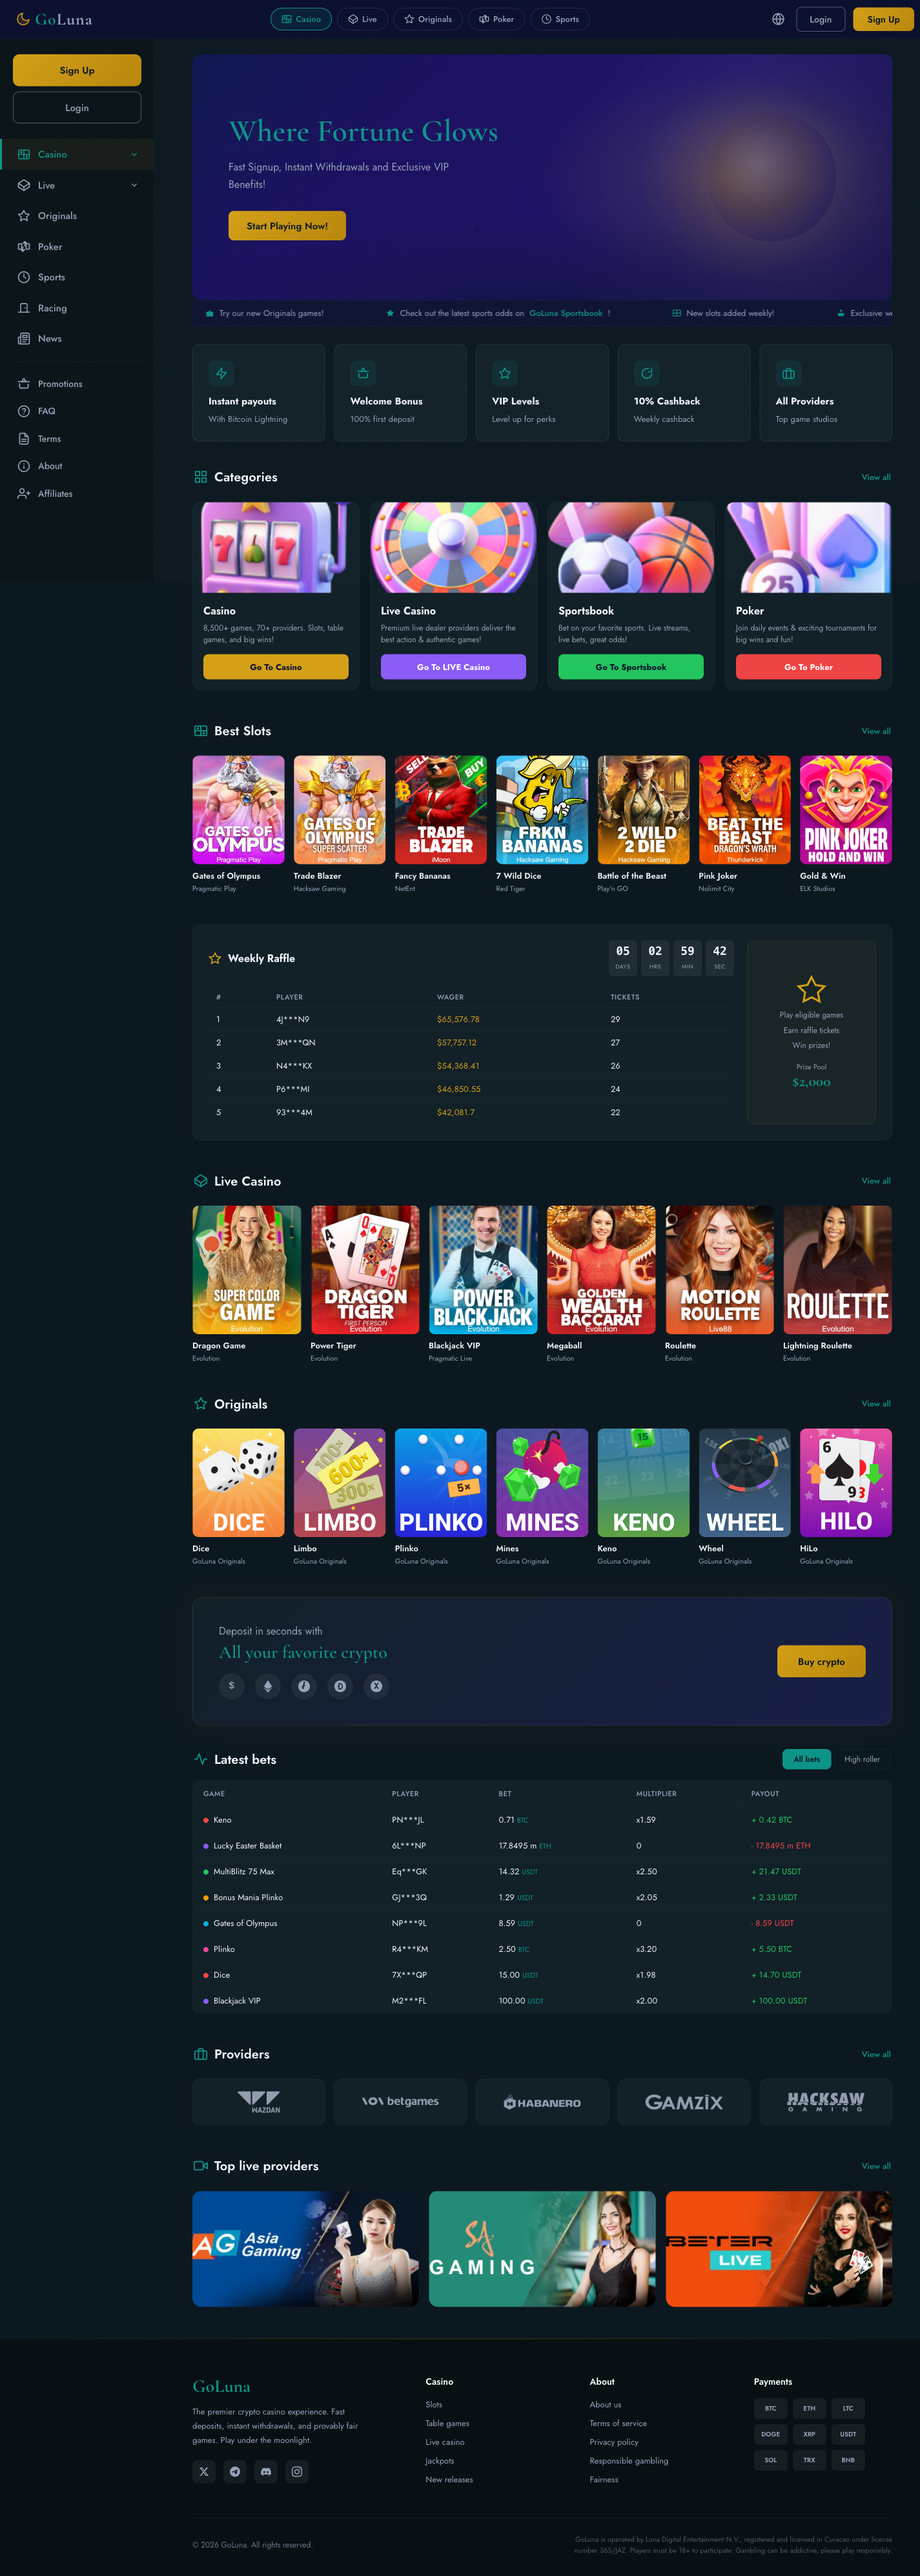
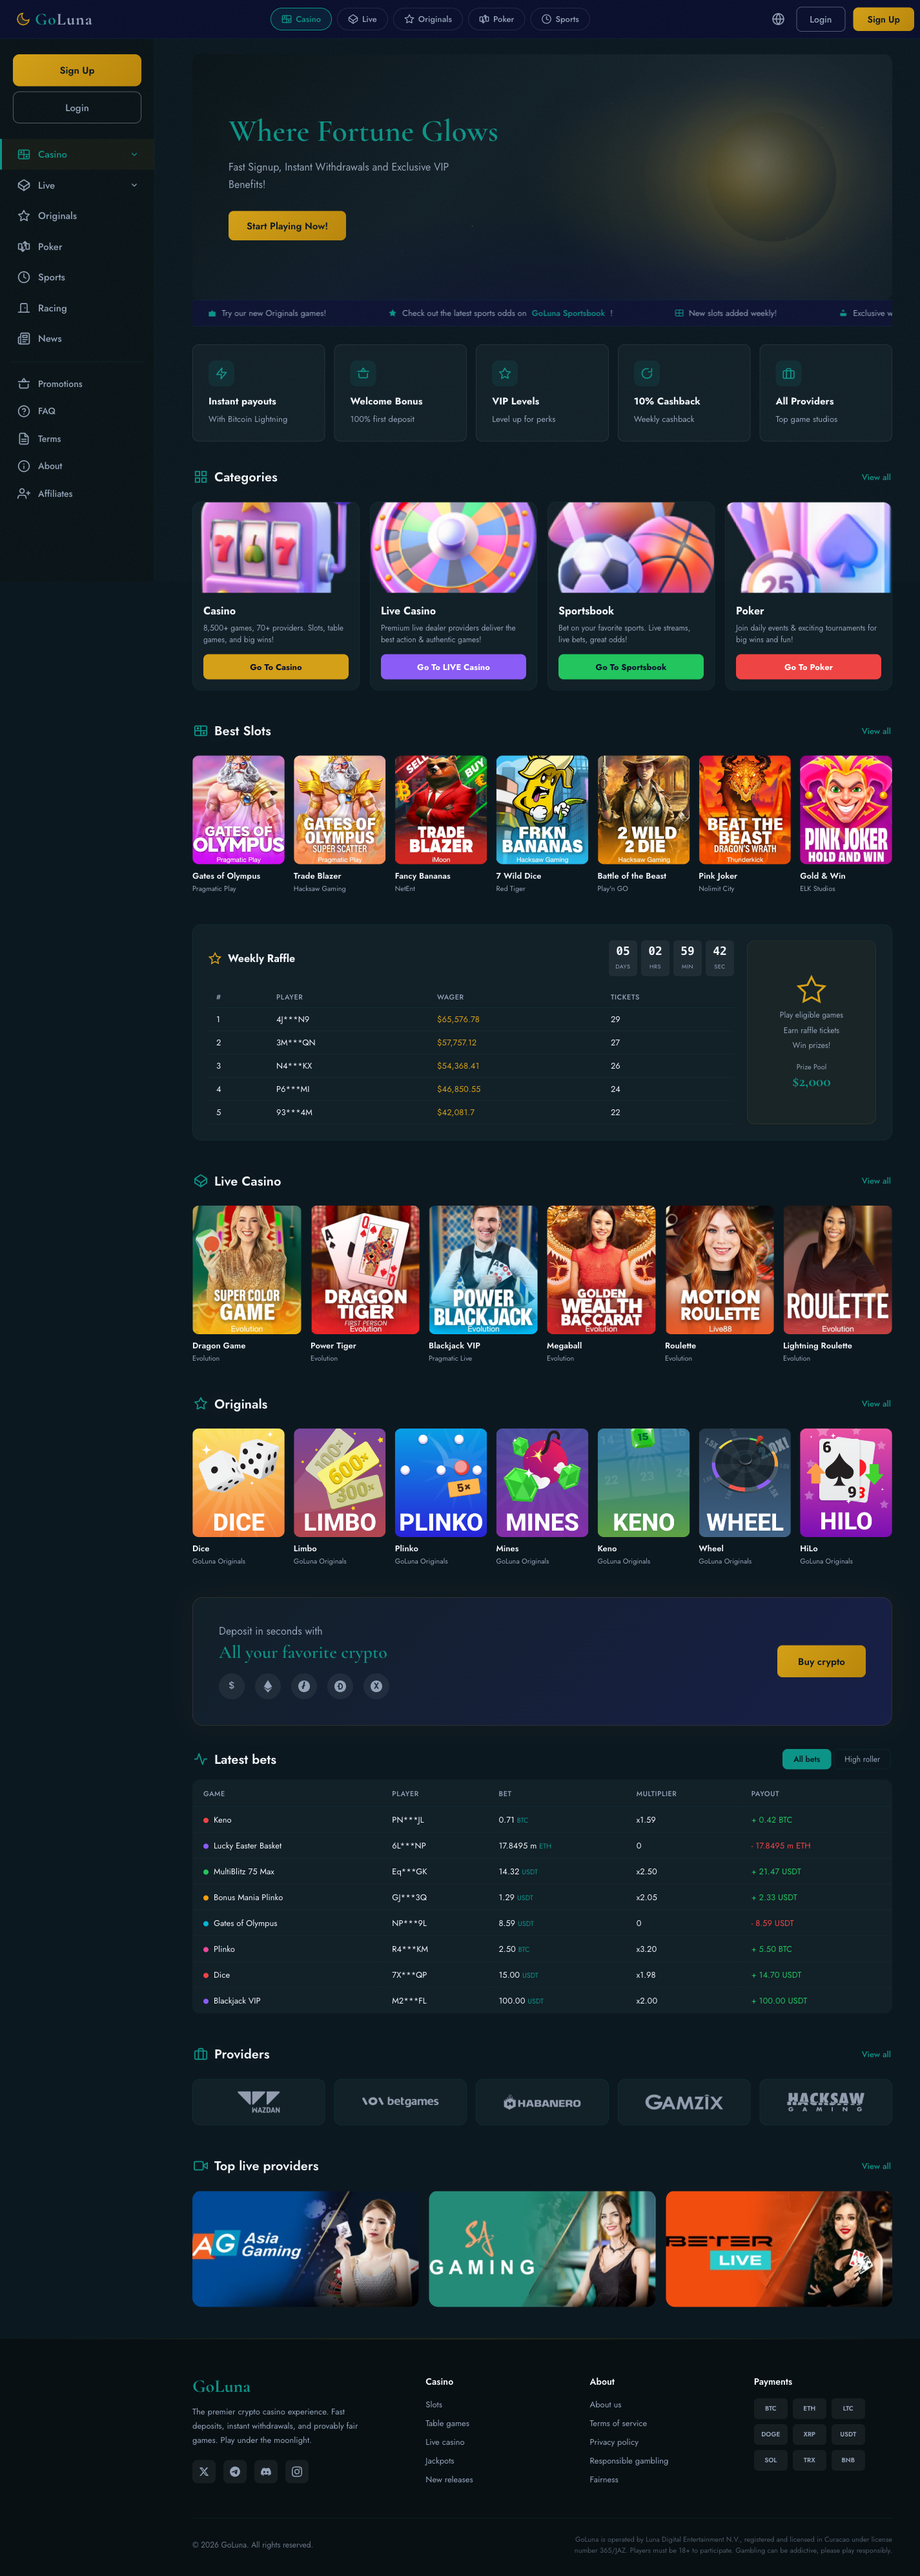
Fix hero gradient + text wrapping, retake all 10 brand screenshots
- Hero gradient now uses CSS variables (matches brand colors properly)
- Hero content widened to 580px (no more text wrapping)
- All 10 brand direction screenshots regenerated with fixes
- Fixed across all 7 demo pages

Changed region(s): [[0.1853, 0.0, 0.9881, 0.1244]]

diff --git a/goluna-demo/index.html b/goluna-demo/index.html
@@ -208,7 +208,7 @@ img { display: block; max-width: 100%; }
     radial-gradient(ellipse 30% 40% at 80% 40%, rgba(255,255,255,0.04) 0%, transparent 60%),
     radial-gradient(circle at 85% 50%, rgba(192,199,214,0.08) 0%, transparent 40%),
     radial-gradient(ellipse 80% 80% at 50% 120%, rgba(14,18,56,0.8) 0%, transparent 70%),
-    linear-gradient(135deg, #0e1650 0%, #1a1060 30%, #1c1266 60%, #140e45 100%);
+    linear-gradient(135deg, var(--sidebar-bg) 0%, var(--surface) 40%, var(--bg) 100%);
   position: relative; overflow: hidden;
   display: flex; align-items: center; padding: 0 56px;
   margin-bottom: 0;
@@ -235,7 +235,7 @@ img { display: block; max-width: 100%; }
     radial-gradient(1px 1px at 15% 60%, rgba(212,160,23,0.2), transparent),
     radial-gradient(1.5px 1.5px at 85% 75%, rgba(212,160,23,0.3), transparent);
 }
-.hero-content { position: relative; z-index: 2; max-width: 480px; padding: 48px 0; }
+.hero-content { position: relative; z-index: 2; max-width: 580px; padding: 48px 0; }
 .hero h1 {
   font-family: var(--heading); font-size: 48px; font-weight: 600;
   color: var(--gold); line-height: 1.12; margin-bottom: 16px;
